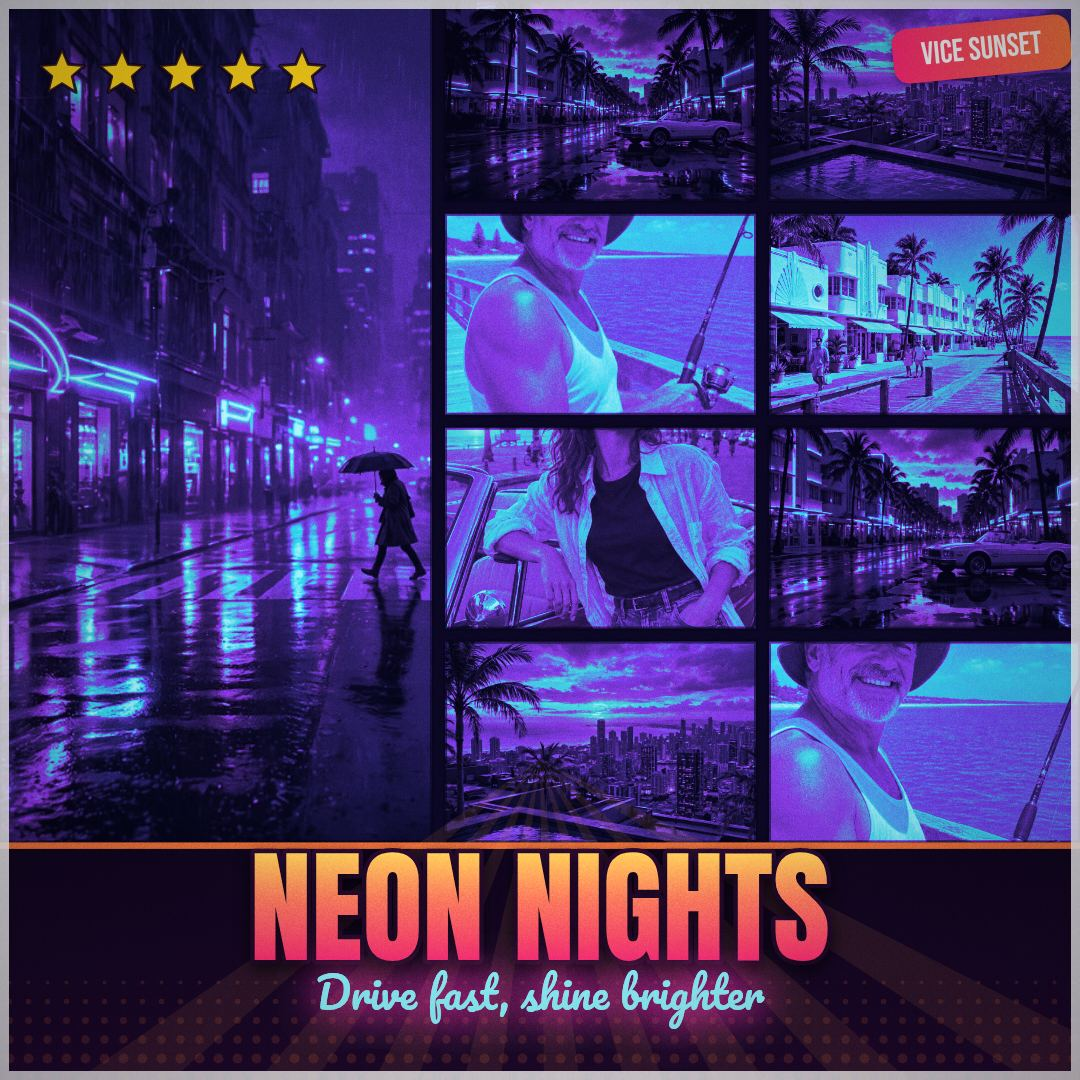
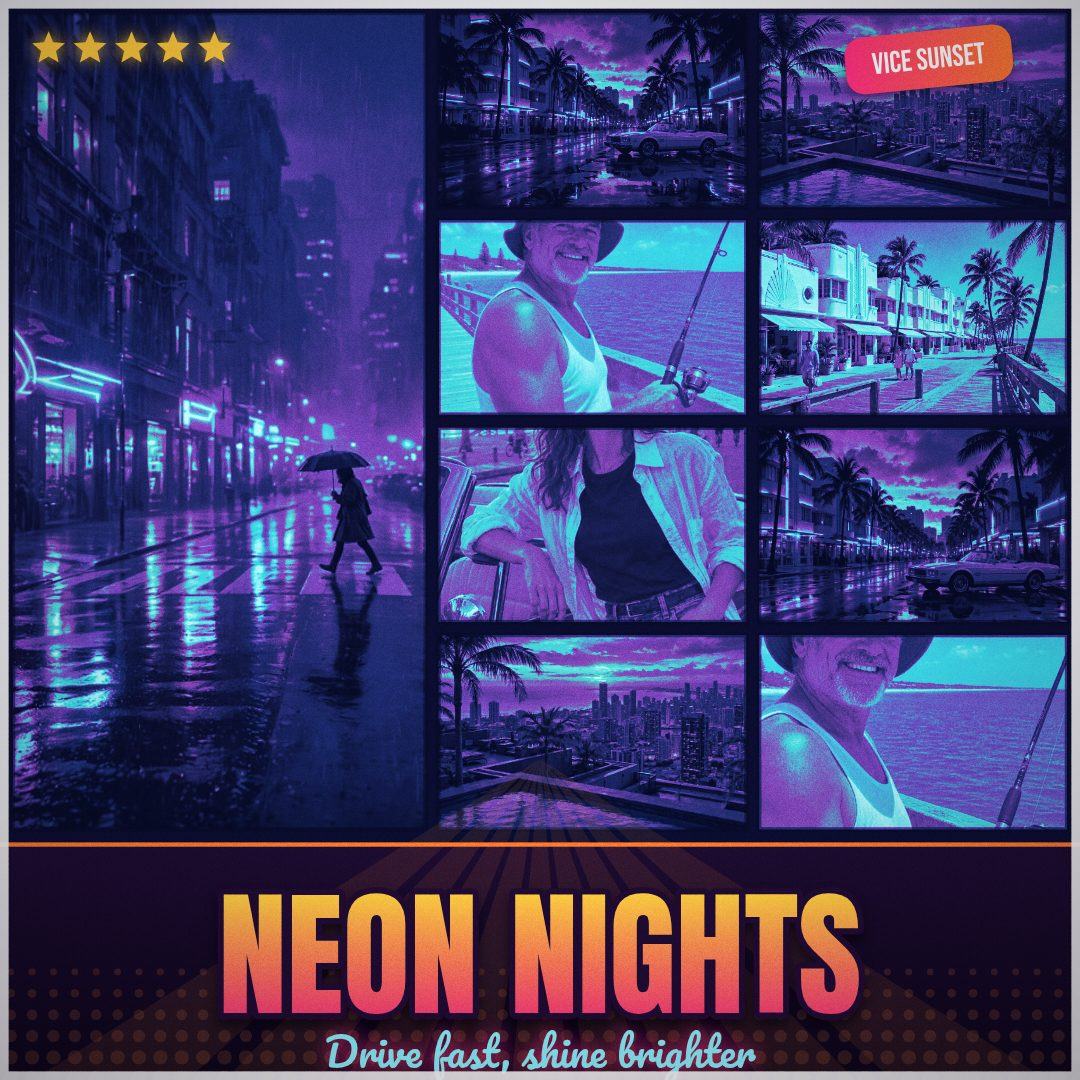
Cover Coast v3 polish: main.ts preflight now checks screenshot dimensions, editor preview fits viewport, repeat-slot close-up retargeted

diff --git a/main.ts b/main.ts
@@ -10,21 +10,54 @@
 // not set. The program runs twice over the same inputs and writes the
 // same bytes both times.
 //
-// Preflight: the screenshots must be exactly 4, each at most 256 KiB —
-// anything else fails loudly instead of handing in a bundle the gate
-// would refuse.
+// Preflight: the screenshots must be exactly 4, each at most 256 KiB,
+// each a readable PNG or JPEG with its long side at most 1280 px and
+// its short side at least 480 px — anything else fails loudly instead
+// of handing in a bundle the gate would refuse.
 
-import { cp, mkdir, readdir, rm, stat, writeFile } from 'node:fs/promises';
+import { cp, mkdir, readdir, readFile, rm, stat, writeFile } from 'node:fs/promises';
 import { dirname, join, resolve } from 'node:path';
 import { fileURLToPath } from 'node:url';
 import { buildDossier } from './vendor/makefun-app.ts';
 
 const MAX_SCREENSHOTS = 4;
 const MAX_SCREENSHOT_BYTES = 256 * 1024;
+const MAX_SCREENSHOT_LONG_SIDE = 1280;
+const MIN_SCREENSHOT_SHORT_SIDE = 480;
 const TEXT_MAX_BYTES = 163840;
 const APP_MAX_FILES = 993;
 const APP_MAX_BYTES = 48 * 1024 * 1024;
 const APP_PATH_MAX_BYTES = 1000;
+
+// Dimensions of a PNG from its IHDR chunk, or null when not a PNG.
+function pngDimensions(bytes: Buffer): { width: number; height: number } | null {
+  if (bytes.length < 24 || bytes[0] !== 0x89 || bytes[1] !== 0x50 || bytes[2] !== 0x4e || bytes[3] !== 0x47) {
+    return null;
+  }
+  return { width: bytes.readUInt32BE(16), height: bytes.readUInt32BE(20) };
+}
+
+// Dimensions of a JPEG by scanning its markers for a start-of-frame
+// segment, or null when not a JPEG or no frame is found.
+function jpegDimensions(bytes: Buffer): { width: number; height: number } | null {
+  if (bytes.length < 4 || bytes[0] !== 0xff || bytes[1] !== 0xd8) return null;
+  let offset = 2;
+  while (offset + 9 < bytes.length) {
+    if (bytes[offset] !== 0xff) {
+      offset++;
+      continue;
+    }
+    const marker = bytes[offset + 1];
+    if (marker === 0xd9 || marker === 0xda) break;
+    const length = bytes.readUInt16BE(offset + 2);
+    if (length < 2) break;
+    if (marker === 0xc0 || marker === 0xc2) {
+      return { width: bytes.readUInt16BE(offset + 7), height: bytes.readUInt16BE(offset + 5) };
+    }
+    offset += 2 + length;
+  }
+  return null;
+}
 
 async function checkScreenshots(screenshotsDir) {
   const names = (await readdir(screenshotsDir)).filter((name) => !name.startsWith('.')).sort();
@@ -34,13 +67,33 @@ async function checkScreenshots(screenshotsDir) {
     );
   }
   for (const name of names) {
-    const info = await stat(join(screenshotsDir, name));
+    const path = join(screenshotsDir, name);
+    const info = await stat(path);
     if (!info.isFile()) {
       throw new Error(`Preflight failed: screenshots/${name} is not a regular file.`);
     }
     if (info.size > MAX_SCREENSHOT_BYTES) {
       throw new Error(
         `Preflight failed: screenshots/${name} is ${info.size} bytes, over the ${MAX_SCREENSHOT_BYTES} byte cap.`,
+      );
+    }
+    const bytes = await readFile(path);
+    const dims = pngDimensions(bytes) ?? jpegDimensions(bytes);
+    if (!dims) {
+      throw new Error(`Preflight failed: screenshots/${name} is not a readable PNG or JPEG.`);
+    }
+    const longSide = Math.max(dims.width, dims.height);
+    const shortSide = Math.min(dims.width, dims.height);
+    if (longSide > MAX_SCREENSHOT_LONG_SIDE) {
+      throw new Error(
+        `Preflight failed: screenshots/${name} is ${dims.width}x${dims.height}, ` +
+          `long side over the ${MAX_SCREENSHOT_LONG_SIDE} px cap.`,
+      );
+    }
+    if (shortSide < MIN_SCREENSHOT_SHORT_SIDE) {
+      throw new Error(
+        `Preflight failed: screenshots/${name} is ${dims.width}x${dims.height}, ` +
+          `short side under the ${MIN_SCREENSHOT_SHORT_SIDE} px minimum.`,
       );
     }
   }

diff --git a/app/src/lettering.js b/app/src/lettering.js
@@ -79,7 +79,7 @@ export function drawCoverTitle(ctx, text, box) {
   const label = (text || 'COVER').toUpperCase();
   const innerW = box.w * 0.96;
   const centreX = box.align === 'left' ? box.x + innerW / 2 : box.x + box.w / 2;
-  const startSize = Math.floor(box.h * 0.62);
+  const startSize = Math.floor(box.h * 0.58);
   const oneLineSize = fitLine(ctx, label, innerW, startSize);
 
   let lines;
@@ -100,8 +100,15 @@ export function drawCoverTitle(ctx, text, box) {
     lines = [label];
   }
 
-  const lineGap = fontSize * 0.18;
-  const blockHeight = lines.length * fontSize + (lines.length - 1) * lineGap;
+  // A two-line block must still fit its box: shrink both lines together
+  // until it does, down to the 10 px floor.
+  let lineGap = fontSize * 0.18;
+  let blockHeight = lines.length * fontSize + (lines.length - 1) * lineGap;
+  while (blockHeight > box.h && fontSize > 10) {
+    fontSize -= 2;
+    lineGap = fontSize * 0.18;
+    blockHeight = lines.length * fontSize + (lines.length - 1) * lineGap;
+  }
   const blockTop = box.y + (box.h - blockHeight) / 2;
   lines.forEach((line, index) => {
     const baselineY = blockTop + fontSize * (index + 1) + lineGap * index - fontSize * 0.12;

diff --git a/app/src/main.js b/app/src/main.js
@@ -122,7 +122,16 @@ function previewSize() {
 }
 
 export function render() {
-  const { width, height } = previewSize();
+  let width;
+  let height;
+  if (shotMode && document.body.classList.contains('shot-cover')) {
+    // A cover-only scene fills the screen: render at the viewport size
+    // so the screenshot is sharp at whatever size it is taken.
+    width = window.innerWidth;
+    height = window.innerHeight;
+  } else {
+    ({ width, height } = previewSize());
+  }
   if (stage.width !== width) stage.width = width;
   if (stage.height !== height) stage.height = height;
   renderCover(stageCtx, state, width, height);

diff --git a/app/style.css b/app/style.css
@@ -272,6 +272,7 @@ button {
 .stage-wrap canvas {
   display: block;
   width: min(720px, 100%);
+  max-height: calc(100vh - 170px);
   height: auto;
   border-radius: 12px;
   box-shadow: 0 18px 50px rgba(0, 0, 0, 0.55);
@@ -308,6 +309,7 @@ body.shot-cover .stage-wrap {
 body.shot-cover .stage-wrap canvas {
   width: 100vw;
   height: 100vh;
+  max-height: none;
   object-fit: contain;
   border-radius: 0;
   box-shadow: none;

diff --git a/app/src/panels.js b/app/src/panels.js
@@ -24,7 +24,7 @@ const REPEAT_ZOOM = [1.32, 1.37, 1.42];
 const REPEAT_OFFSET = [
   [-0.45, 0.3],
   [0.45, -0.3],
-  [-0.4, -0.35],
+  [-0.35, 0.25],
 ];
 
 // The crop a slot starts with: gentle for slots 0–5, a tight close-up
